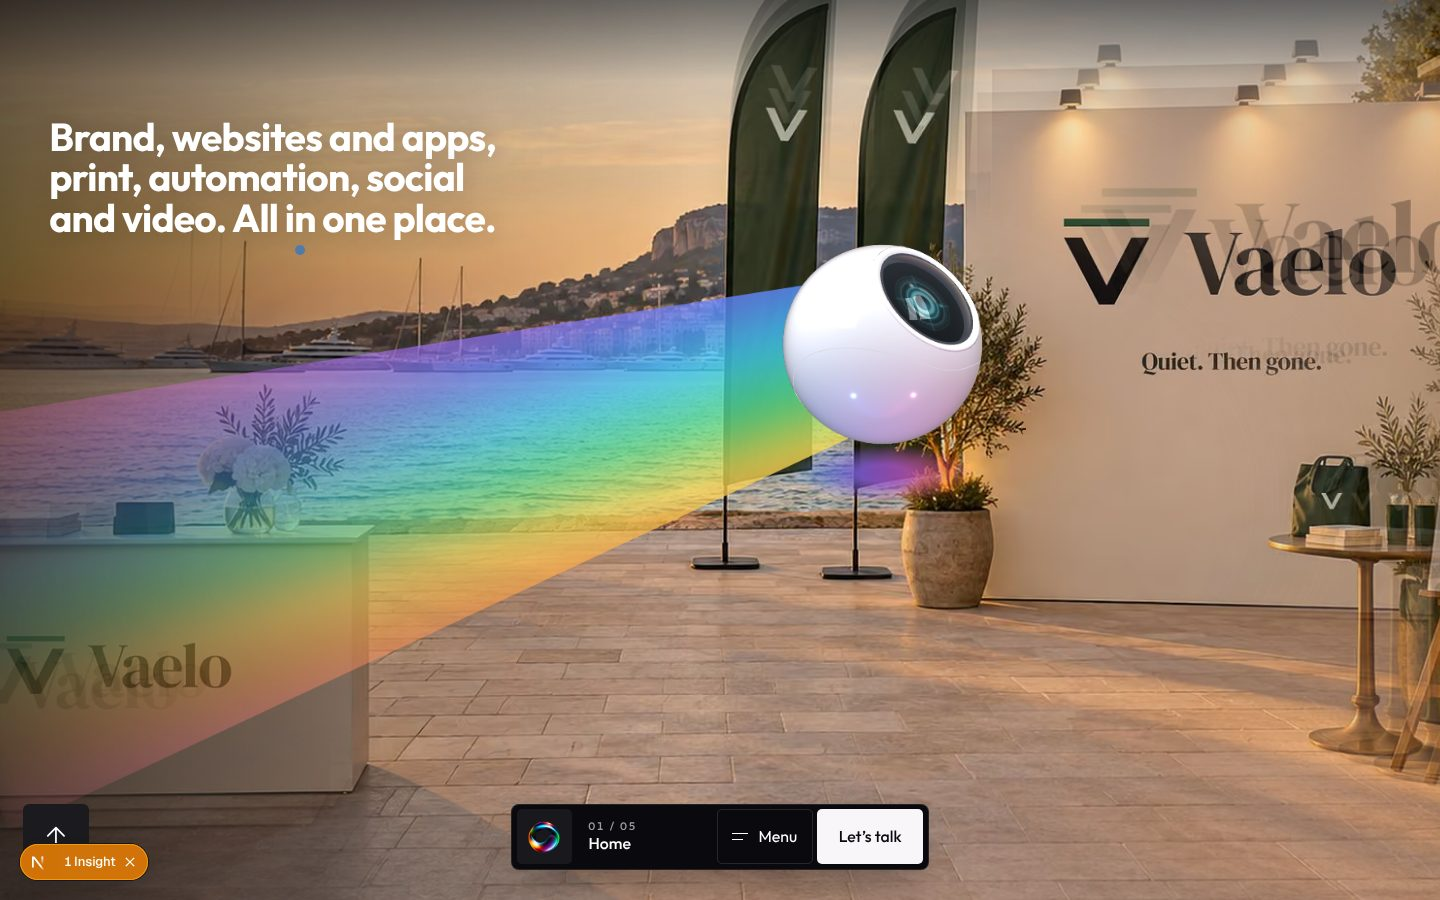
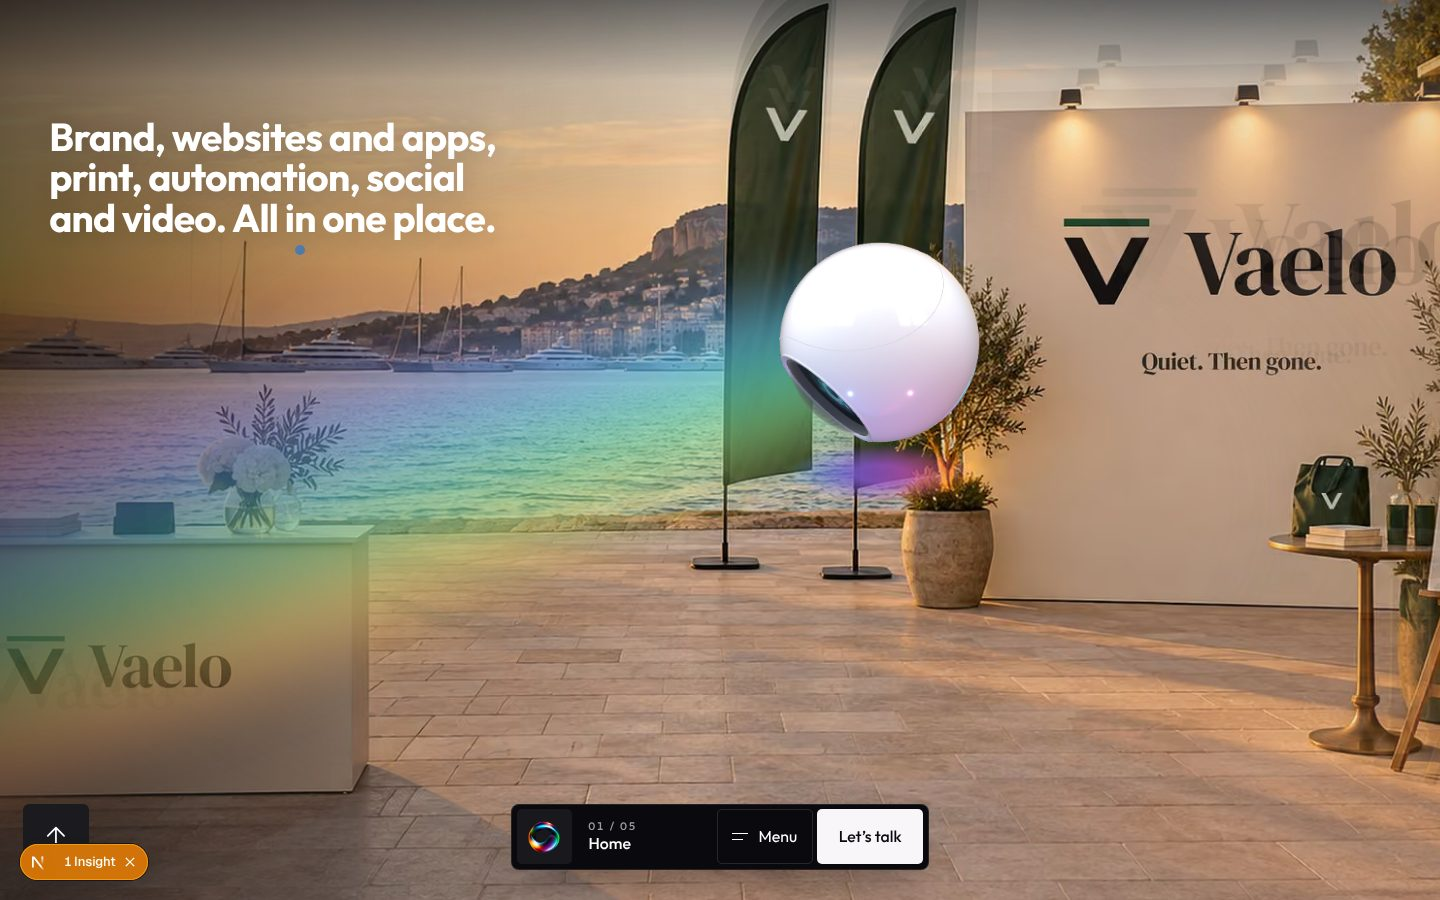
Home hero: the trail is a soft, see-through fog of colour
Claude-Session: https://claude.ai/code/session_011BdSE2fEeiEv9ZgoYmWAPn

diff --git a/src/components/sections/HeroCharacter.tsx b/src/components/sections/HeroCharacter.tsx
@@ -2,14 +2,17 @@
 
 import { useEffect, useRef } from "react";
 
-/** The light trail: streaks of rainbow light pouring straight out of its back (the side away from its eye) while it flies fast, like speed lines. */
+/**
+ * The light trail: a soft fog of rainbow light pouring straight out of its back (the side away from its eye) while it
+ * flies fast. The scene shows through it. The wedge is cut on the inner layer and blurred on the outer one, so it
+ * has no hard edge anywhere.
+ */
 const TRAIL: React.CSSProperties = {
   background:
-    "repeating-linear-gradient(180deg, rgb(255 255 255 / 0.2) 0 1.2%, transparent 1.2% 5.5%), linear-gradient(180deg, #ff5fb4 0%, #b667ff 15%, #5a7dff 29%, #35d4ff 43%, #4be58a 56%, #ffe14d 69%, #ff9a3c 82%, #ff5fa8 100%)",
-  maskImage: "linear-gradient(270deg, #000 0%, rgb(0 0 0 / 0.8) 40%, rgb(0 0 0 / 0.12) 100%)",
-  WebkitMaskImage: "linear-gradient(270deg, #000 0%, rgb(0 0 0 / 0.8) 40%, rgb(0 0 0 / 0.12) 100%)",
-  clipPath: "polygon(100% 33%, 0 0, 0 100%, 100% 67%)",
-  transformOrigin: "100% 50%",
+    "linear-gradient(180deg, rgb(255 110 190 / 0.9) 0%, rgb(190 120 255 / 0.9) 16%, rgb(105 140 255 / 0.9) 30%, rgb(80 220 255 / 0.9) 44%, rgb(110 235 150 / 0.9) 57%, rgb(255 232 110 / 0.9) 70%, rgb(255 165 90 / 0.9) 83%, rgb(255 110 180 / 0.9) 100%)",
+  maskImage: "linear-gradient(270deg, #000 0%, rgb(0 0 0 / 0.75) 45%, rgb(0 0 0 / 0.3) 100%)",
+  WebkitMaskImage: "linear-gradient(270deg, #000 0%, rgb(0 0 0 / 0.75) 45%, rgb(0 0 0 / 0.3) 100%)",
+  clipPath: "polygon(100% 36%, 0 4%, 0 96%, 100% 64%)",
 };
 
 /** The light it throws on the ground below it: our colours in a soft pool, with a faint shadow under it. */
@@ -206,13 +209,13 @@ export function HeroCharacter() {
         const bob = reduce ? 0 : Math.sin(t * 1.7) * 5, hop = since < 0.45 ? -Math.sin((since / 0.45) * Math.PI) * 18 : 0;
         el.style.transform = `translate(${(fx + lean[0] * 30 * (1 - away)).toFixed(1)}px,${(fy + bob + hop + lean[1] * 18 * (1 - away)).toFixed(1)}px) scale(${((1 + grow * 0.06) * fs).toFixed(3)})`;
         // The trail shows only while it flies fast, longer the faster it goes. It keeps its size as the character shrinks.
-        tr.style.opacity = (clamp((v - 0.08) / 0.4, 0, 1) * clamp(away * 3, 0, 1) * 0.85).toFixed(3);
+        tr.style.opacity = (clamp((v - 0.08) / 0.4, 0, 1) * clamp(away * 3, 0, 1) * 0.72).toFixed(3);
         tr.style.transform = `translateY(-50%) rotate(-17deg) scale(${((0.6 + v * 0.45) / fs).toFixed(3)},${((0.9 + v * 0.15) / fs).toFixed(3)})`;
         // The pool of light on the ground: it stays put while the character bobs and hops above it, and breathes a little.
         const lift = (bob + hop) / Math.max(1, size);
         gw.style.opacity = (0.86 - Math.min(0.3, -hop / 60) + (reduce ? 0 : Math.sin(t * 1.7) * 0.06)).toFixed(3);
         gw.style.transform = `translateY(${(-(bob + hop)).toFixed(1)}px) scale(${(1 + lift * 0.6).toFixed(3)})`;
-        for (const r of rush) r.style.opacity = (clamp((v - 0.05) / 0.5, 0, 1) * 0.4).toFixed(3);
+        for (const r of rush) r.style.opacity = (clamp((v - 0.05) / 0.5, 0, 1) * 0.16).toFixed(3);
         fit();
         pivot.rotation.y = yaw + twirl; pivot.rotation.x = pitch; pivot.rotation.z = -lean[0] * 0.08 * (1 - away) - away * 0.1;
         if (hud && hudMat) {
@@ -252,7 +255,9 @@ export function HeroCharacter() {
       className="absolute top-[calc(60%-var(--w)/2)] left-[calc(50%-var(--w)/2)] block aspect-square w-[var(--w)] cursor-pointer rounded-full outline-offset-4 will-change-transform [--w:clamp(150px,46vw,230px)] [-webkit-tap-highlight-color:transparent] md:top-[calc(42%-var(--w)/2)] md:left-[calc(39%-var(--w)/2)] md:[--w:clamp(200px,min(20vw,34svh),340px)]"
     >
       {/* The trail starts behind its back and streams away to the left and a little down, widening as it goes. */}
-      <span ref={trail} aria-hidden="true" className="pointer-events-none absolute top-1/2 right-1/2 -z-10 h-[150%] w-[min(85vw,1200px)] opacity-0 blur-[clamp(8px,1vw,18px)]" style={TRAIL} />
+      <span ref={trail} aria-hidden="true" className="pointer-events-none absolute top-1/2 right-1/2 -z-10 h-[150%] w-[min(85vw,1200px)] origin-right opacity-0 blur-[clamp(16px,2.2vw,36px)]">
+        <span className="absolute inset-0" style={TRAIL} />
+      </span>
       <span ref={glow} aria-hidden="true" className="pointer-events-none absolute top-[88%] left-[-5%] -z-10 h-[34%] w-[110%] opacity-85 blur-[clamp(6px,0.7vw,12px)]" style={GLOW} />
       {/* Its own little screen: what a press on it shows (and, on phones, what it shows by itself). */}
       <span ref={note} aria-live="polite" className="pointer-events-none absolute top-[108%] left-1/2 block w-[min(76vw,260px)] -translate-x-1/2 overflow-hidden rounded-[10px] border border-white/20 bg-[rgb(10_12_22/0.88)] px-3.5 pt-3 pb-3 text-left opacity-0 shadow-[0_12px_40px_rgb(0_0_0/0.45)] transition-opacity duration-200 md:top-auto md:bottom-[100%]">

diff --git a/LAUNCH-CHECKLIST.md b/LAUNCH-CHECKLIST.md
@@ -46,7 +46,7 @@ Tick items as they are done.
 - [ ] Character built as a real 3D model and approved by the owner (17 Nov): `design/hero/character/model` (built by `build.py`), drawn live in `design/hero/orb-proto` (`page.html` is the source, `make.py` builds `index.html`). Still to do before it goes on the site: slim the model file (about 2.4 MB now) and load it after the first screen.
 - [ ] Scroll script and scene plan for the journey, waiting for the owner's yes: `design/hero/journey-script` (the launch day of our own electric supercar, through six outdoor stops; the owner chose the car on 17 Nov, a low wedge supercar of our own design, no real maker; travel legs blur with speed and the light tail uses our colours only). Order of work is in the plan: the journey in plain colours first (no credits), then the booth stop for real.
 - [ ] The car for the journey (17 Nov): 3D model built by us in `design/hero/car/model` (`build.py`) under the working name Vaelo (name not yet checked against trademarks). The owner first asked for a Lamborghini-type wedge, found the hand-built wedge did not look real, then shared a soft concept-car picture as the idea; the model is now one smooth pearl body with a glass canopy, wheels ringed with light and a light blade in our colours (`design/hero/car/hero.jpg`). The reference is another designer's concept, used for mood only, never copied. Later the same day the owner shared an advert with a green Porsche Taycan and a serif headline and asked for that font and car: the Figma headlines now use the closest serif we are free to use (DM Serif Display); the Porsche itself cannot be our brand's car, so the owner still has to choose between our own model in that mood, an original real-looking car once image credits are back, or a licensed 3D model. Car views and the launch brand designs (brand board, build-your-car page, owner app, billboard, shelter poster, social post, show stand panels) are in Figma: https://www.figma.com/design/U7fxv5ipzHrCeX7kmJf2bv. The image credits ran out on 17 Nov (they reset on 5 Dec), so the scene pictures wait for the reset or a top-up.
-- [x] On staging now (17 Nov), until video credits arrive: the Home hero is stop 01 of the journey, Brand, for our concept car brand Vaelo (the owner confirmed the whole story is car branding, and that the car itself is not shown first; a café scene and the show stand with the car were tried and dropped). The picture is a launch pavilion on a marina quay at sunset with our Figma brand designs placed on it: logo wall, flags, the brand guide on an easel, the welcome desk and a bag (`design/hero/car/scenes/01-brand-launch-pavilion.jpg`), with one small line saying Vaelo is a concept brand we designed, so nobody takes it for a client or for a car website. Our character is drawn live (`src/components/sections/HeroCharacter.tsx`, model in `public/home/character.glb`, loaded after the page) with a pool of coloured light below it; the heading sits small at the top left (above the character on phones). Five points on the brand items (logo, flags and signs, brand guide, stationery, merchandise): when the pointer goes to one, the character turns to look at it and a small screen says in a few words what we do there; left alone it shows them one by one, and a press on the character (the way it works on phones) shows the next one beside it. On scroll the heading fades, the character flies off to the right with rainbow speed streaks pouring from its back only while it moves fast, and one line about our services takes the heading's place. The cursor dot and the character now follow the mouse much faster. One closing call to action on Home, tour text removed. Checked locally at 1440px and 390px only. Still to do: an entrance for the character after the loading panel, a real phone check, PageSpeed on the new hero, a sharper scene picture (enlarged from 1536px, needs upscale credits), and a trademark check on the name Vaelo before launch.
+- [x] On staging now (17 Nov), until video credits arrive: the Home hero is stop 01 of the journey, Brand, for our concept car brand Vaelo (the owner confirmed the whole story is car branding, and that the car itself is not shown first; a café scene and the show stand with the car were tried and dropped). The picture is a launch pavilion on a marina quay at sunset with our Figma brand designs placed on it: logo wall, flags, the brand guide on an easel, the welcome desk and a bag (`design/hero/car/scenes/01-brand-launch-pavilion.jpg`), with one small line saying Vaelo is a concept brand we designed, so nobody takes it for a client or for a car website. Our character is drawn live (`src/components/sections/HeroCharacter.tsx`, model in `public/home/character.glb`, loaded after the page) with a pool of coloured light below it; the heading sits small at the top left (above the character on phones). Five points on the brand items (logo, flags and signs, brand guide, stationery, merchandise): when the pointer goes to one, the character turns to look at it and a small screen says in a few words what we do there; left alone it shows them one by one, and a press on the character (the way it works on phones) shows the next one beside it. On scroll the heading fades, the character flies off to the right with a soft, see-through fog of rainbow light pouring from its back only while it moves fast, and one line about our services takes the heading's place. The cursor dot and the character now follow the mouse much faster. One closing call to action on Home, tour text removed. Checked locally at 1440px and 390px only. Still to do: an entrance for the character after the loading panel, a real phone check, PageSpeed on the new hero, a sharper scene picture (enlarged from 1536px, needs upscale credits), and a trademark check on the name Vaelo before launch.
 - Home today shows the trial picture of the glass studio (day in the light theme, night in the dark theme).
 
 ## Already done (4 November 2026)
